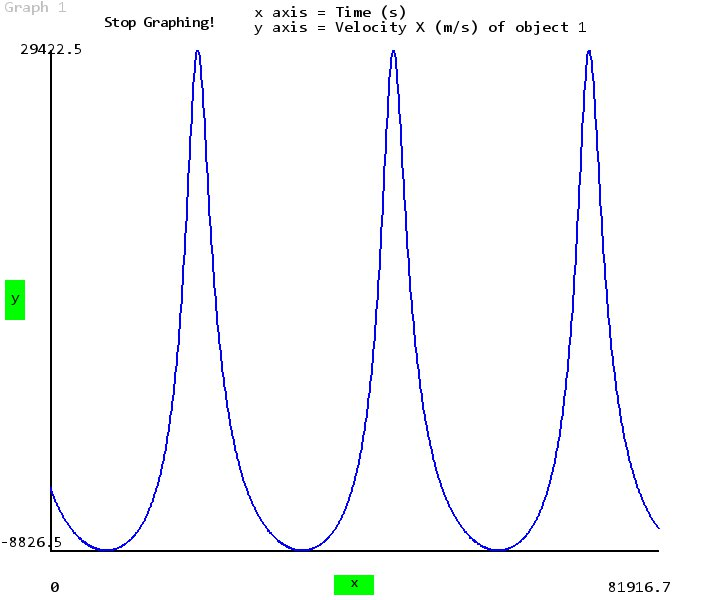
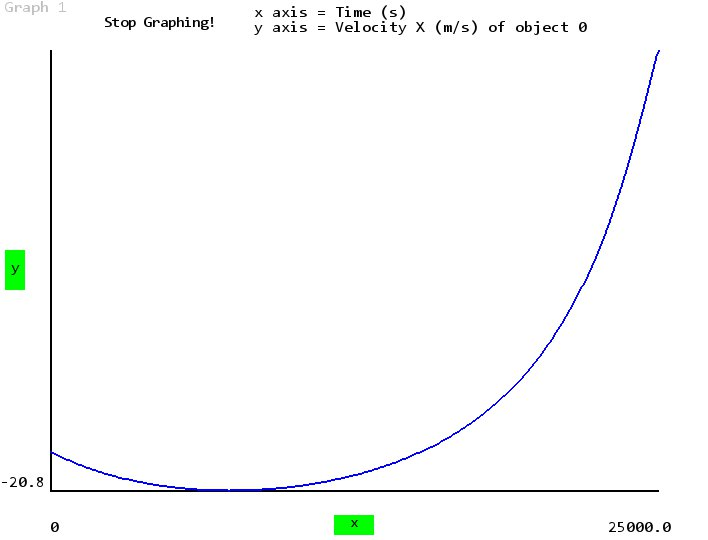
used binary search
binary search is now used to find the object wanted for graphing

diff --git a/Orbit Simulator/Orbit Simulator/Orbit_Simulator.py b/Orbit Simulator/Orbit Simulator/Orbit_Simulator.py
@@ -256,6 +256,8 @@ class Object:
         self.metricMass = math.pi*(4/3)*(self.metricRadius**3)*self.density
         #sets the array holding previous points the object has been to be empty
         self.trail = []
+        #sets the net force to 0
+        self.netForce = 0
 
     ##display method
     #self references all variables unique to each object
@@ -399,8 +401,13 @@ VY = "Velocity Y (m/s)"
 bYvel = Button(VY, yellow, pGraph.posX+30, pGraph.posY+90, 200, 50)
 #T - not a button but is the text that will be displayed if any of the axes are Time
 T = "Time (s)"
-#the button that changes an axis ti time
+#the button that changes an axis to time
 bTime = Button(T, yellow, pGraph.posX+30, pGraph.posY+150, 200, 50)
+#F - not a button but is the text that will be disp[layed if any of the axes are force
+F = "Net Force (10^24 N)"
+#the button that changes an axis to net force
+bForce = Button(F, yellow, pGraph.posX+30, pGraph.posY+210, 200, 50)
+
 #the button that starts the graphing
 bStartGraph = Button("Start Graphing!", red, pGraph.posX+(pGraph.sizeX/2+120), pGraph.posY+50, 160, 30)
 #the button that stops the graphing
@@ -736,6 +743,7 @@ while True:
         if not paused:
             #iterates through objects - the list of planets
             for self in objects:
+                self.netForce = 0
                 #iterates through objects - a nested loop
                 for other in objects:
                     #asks if other object does not equal self object
@@ -756,6 +764,8 @@ while True:
                         #This equation finds the force acting on self object through gravity
                         #although it is equal to the force acting on other object, it is calculated when the other object is calculating it's forces when other becomes self (in the outer for loop)
                         force = 6.67*(10**(-11))*(self.metricMass*other.metricMass)/(distance**2)
+                        #adds the force to the net force attribute
+                        self.netForce += force
                         #calculating acceleration of the object from the force and the mass of the object
                         acc = force/self.metricMass
 
@@ -1017,6 +1027,11 @@ while True:
             #display button
             bTime.displayButton(colour21)
 
+            #detect mouse click on the force button
+            colour26, bForceClicked = bForce.buttonClicked(clicked, X, Y)
+            #display button
+            bForce.displayButton(colour26)
+
             #iterate through the buttons
             for n in IDButtons:
                 #detect mouse click on n button
@@ -1070,6 +1085,17 @@ while True:
                 #stop changing the x axis
                 changeXaxis = False
 
+            #is the button for Force clicked
+            if bForceClicked:
+                #set the x axis variable to net force
+                VarX[0] = F
+                #is the object of the x axis -1
+                if VarX[1] == -1:
+                    #set object of the x axis to 0
+                    VarX[1] = 0
+                changeXaxis = False
+
+
         #does the user want to change the Y axis and is the graph not started
         if changeYaxis and not started:
             #display the change y axis panel
@@ -1087,6 +1113,10 @@ while True:
             #detect click on time button
             colour21, bTimeClicked = bTime.buttonClicked(clicked, X, Y)
             bTime.displayButton(colour21)
+
+            #detect click on force button
+            colour26, bForceClicked = bForce.buttonClicked(clicked, X, Y)
+            bForce.displayButton(colour26)
 
             #iterate through the buttons
             for n in IDButtons:
@@ -1141,6 +1171,16 @@ while True:
                 #stop changing Y axis
                 changeYaxis = False
 
+            #is the button for Force clicked
+            if bForceClicked:
+                #set the y axis variable to net force
+                VarY[0] = F
+                #is the object of the y axis -1
+                if VarY[1] == -1:
+                    #set object of the y axis to 0
+                    VarY[1] = 0
+                changeYaxis = False
+
         #detects the start graphing button being clicked
         colour22, bStartGraphClicked = bStartGraph.buttonClicked(clicked, X, Y)
 
@@ -1152,33 +1192,125 @@ while True:
             objectYExists=False
             #asks is objects not empty
             if objects != []:
-                #iterates through the objects
-                for self in objects:
-                    #is the ID of the current planet the same as the one in the X axis
-                    if self.ID == VarX[1]:
-                        #Object does exist
-                        objectXExists = True
-                        #is the variable type the x velocity of an object
-                        if VarX[0] == VX:
-                            #add the objects x velocity to the metric coordinates
-                            XMetricCoords.append(self.velX)
-                        #is the variable type the y velocity of an object
-                        elif VarX[0] == VY:
-                            #add the objects y velocity to the metric coordinates
-                            XMetricCoords.append(self.velY)
-                    #is the ID of the current planet the same as the one in the Y axis
-                    elif self.ID == VarY[1]:
-                        #object does exist
-                        objectYExists = True
-                        #is the variable type the x velocity of an object
-                        if VarY[0] == VX:
-                            #add the objects x velocity to the metric coordinates
-                            #the y coordinate has to be inverted because pixel measurements start at (0,0) in the top left corner
-                            YMetricCoords.append(-self.velX)
-                        #is the variable type the y velocity of an object
-                        elif VarY[0] == VY:
-                            #add the objects y velocity to the metric coordinates
-                            YMetricCoords.append(-self.velY)
+
+
+                ##binary search - the IDs of the objects will be in order so binary search works - it is also more efficient than linear search
+                #variable that tells us if the search is finished
+                found = False
+                #if the object we are looking for exists it will always remain in the nextSearch list
+                nextSearch = objects
+                #loops untill the object is found(or untill it is found that it doesn't exist)
+                while not found:
+                    #asks if nextSearch has more than 1 object
+                    if len(nextSearch) > 1:
+                        #finding halfway point in the list
+                        index = int(len(nextSearch)/2)
+                        if VarX[1] < nextSearch[index].ID:
+                            #discards the higher section
+                            nextSearch = nextSearch[:index]
+                        #asks if the ID we are looking for is greater than the one we are looking at right now
+                        elif VarX[1] > nextSearch[index].ID:
+                            #discards the lower section
+                            nextSearch = nextSearch[index:]
+                        else:
+                            #object is found
+                            found = True
+                            #returns the index of the object in the list of objects
+                            Xindex = objects.index(nextSearch[index])
+                            #object exists
+                            objectXExists = True
+                    else:
+                        #asks if the object we are looking at is the one we are looking for
+                        if nextSearch != []:
+                            if VarX[1] == nextSearch[0].ID:
+                                #object is found
+                                found = True
+                                #returns the index of the object in the list of objects
+                                Xindex = objects.index(nextSearch[0])
+                                #object exists
+                                objectXExists = True
+                            else:
+                                #object was not found but we finished the search
+                                found = True
+                                #object cannot exist
+                                objectXExists = False
+                        else:
+                            #object was not found but we finished the search
+                            found = True
+                            #object cannot exist
+                            objectXExists = False
+
+
+                #variable that tells us if the search is finished
+                found = False
+                #if the object we are looking for exists it will always remain in the nextSearch list
+                nextSearch = objects
+                #loops untill the object is found(or untill it is found that it doesn't exist)
+                while not found:
+                    #asks if nextSearch has more than 1 object
+                    if len(nextSearch) > 1:
+                        #finding halfway point in the list
+                        index = int(len(nextSearch)/2)
+                        if VarY[1] < nextSearch[index].ID:
+                            #discards the higher section
+                            nextSearch = nextSearch[:index]
+                        #asks if the ID we are looking for is greater than the one we are looking at right now
+                        elif VarY[1] > nextSearch[index].ID:
+                            #discards the lower section
+                            nextSearch = nextSearch[index:]
+                        else:
+                            #object is found
+                            found = True
+                            #returns the index of the object in the list of objects
+                            Yindex = objects.index(nextSearch[index])
+                            #object exists
+                            objectYExists = True
+                    else:
+                        #asks if the object we are looking at is the one we are looking for
+                        if nextSearch != []:
+                            if VarY[1] == nextSearch[0].ID:
+                                #object is found
+                                found = True
+                                #returns the index of the object in the list of objects
+                                Yindex = objects.index(nextSearch[0])
+                                #object exists
+                                objectYExists = True
+                            else:
+                                #object was not found but we finished the search
+                                found = True
+                                #object cannot exist
+                                objectYExists = False
+                        else:
+                            #object was not found but we finished the search
+                            found = True
+                            #object cannot exist
+                            objectYExists = False
+
+                #asks if there is an object to be measured for the x axis
+                if objectXExists:
+                    #asks if the variable is the x velocity of the object
+                    if VarX[0] == VX:
+                        #adds the x velocity to the list of coordinates 
+                        XMetricCoords.append(objects[Xindex].velX)
+                    #asks if the variable is the y velocity of the object
+                    elif VarX[0] == VY:
+                        #adds the y velocity to the list of coordinates
+                        XMetricCoords.append(objects[Xindex].velY)
+                    #asks if the variable if the net force acting on the object
+                    elif VarX[0] == F:
+                        ##adds the net force to the list of coordinates
+                        XMetricCoords.append(objects[Xindex].netForce/(10**24))
+                #asks if there is an object to be measured for the x axis
+                if objectYExists:
+                    if VarY[0] == VX:
+                        YMetricCoords.append(-objects[Yindex].velX)
+                    elif VarY[0] == VY:
+                        YMetricCoords.append(-objects[Yindex].velY)
+                    elif VarY[0] == F:
+                        YMetricCoords.append(-objects[Yindex].netForce/(10**24))
+
+
+
 
                 #coordinates to be displayed on the screen
                 screenCoords = []
@@ -1228,7 +1360,7 @@ while True:
                     #text to be displayed at the start of the y axis
                     upperY = PanelFont.render(str(round(-minMetY, 1)), 1, black)
                     #maximum y coordinate
-                    display.blit(upperY, (originX-30, originY-pGraph.sizeX+200))
+                    display.blit(upperY, (originX-50, originY-pGraph.sizeY+100))
 
                     #maximum y coordinate
                     maxMetY = max(YMetricCoords)
